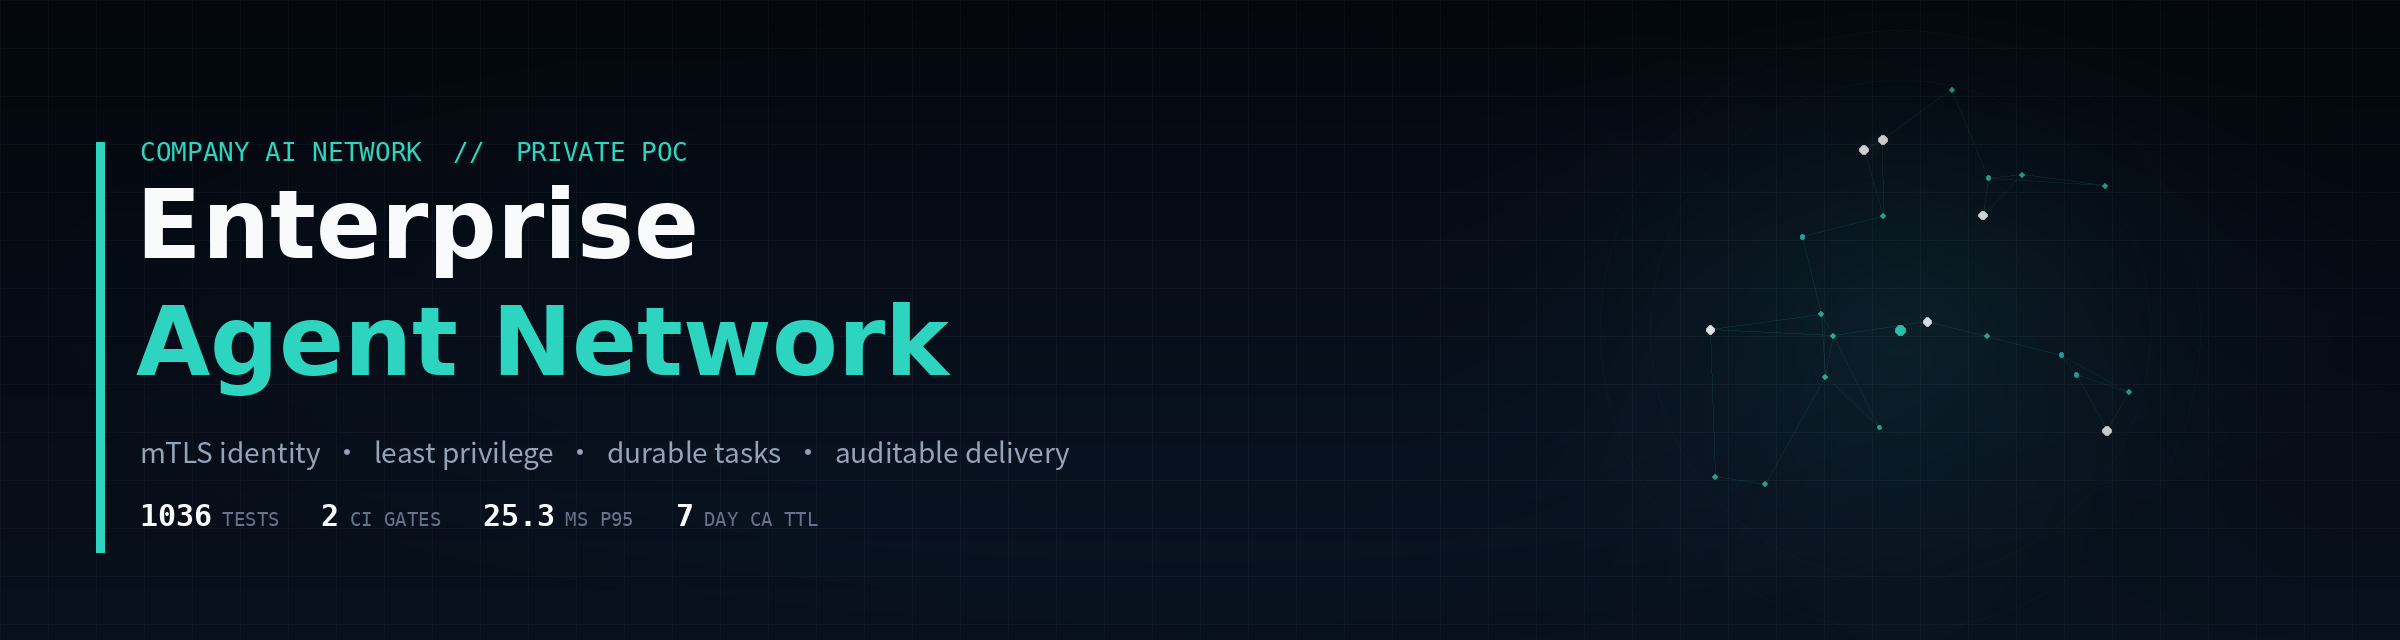
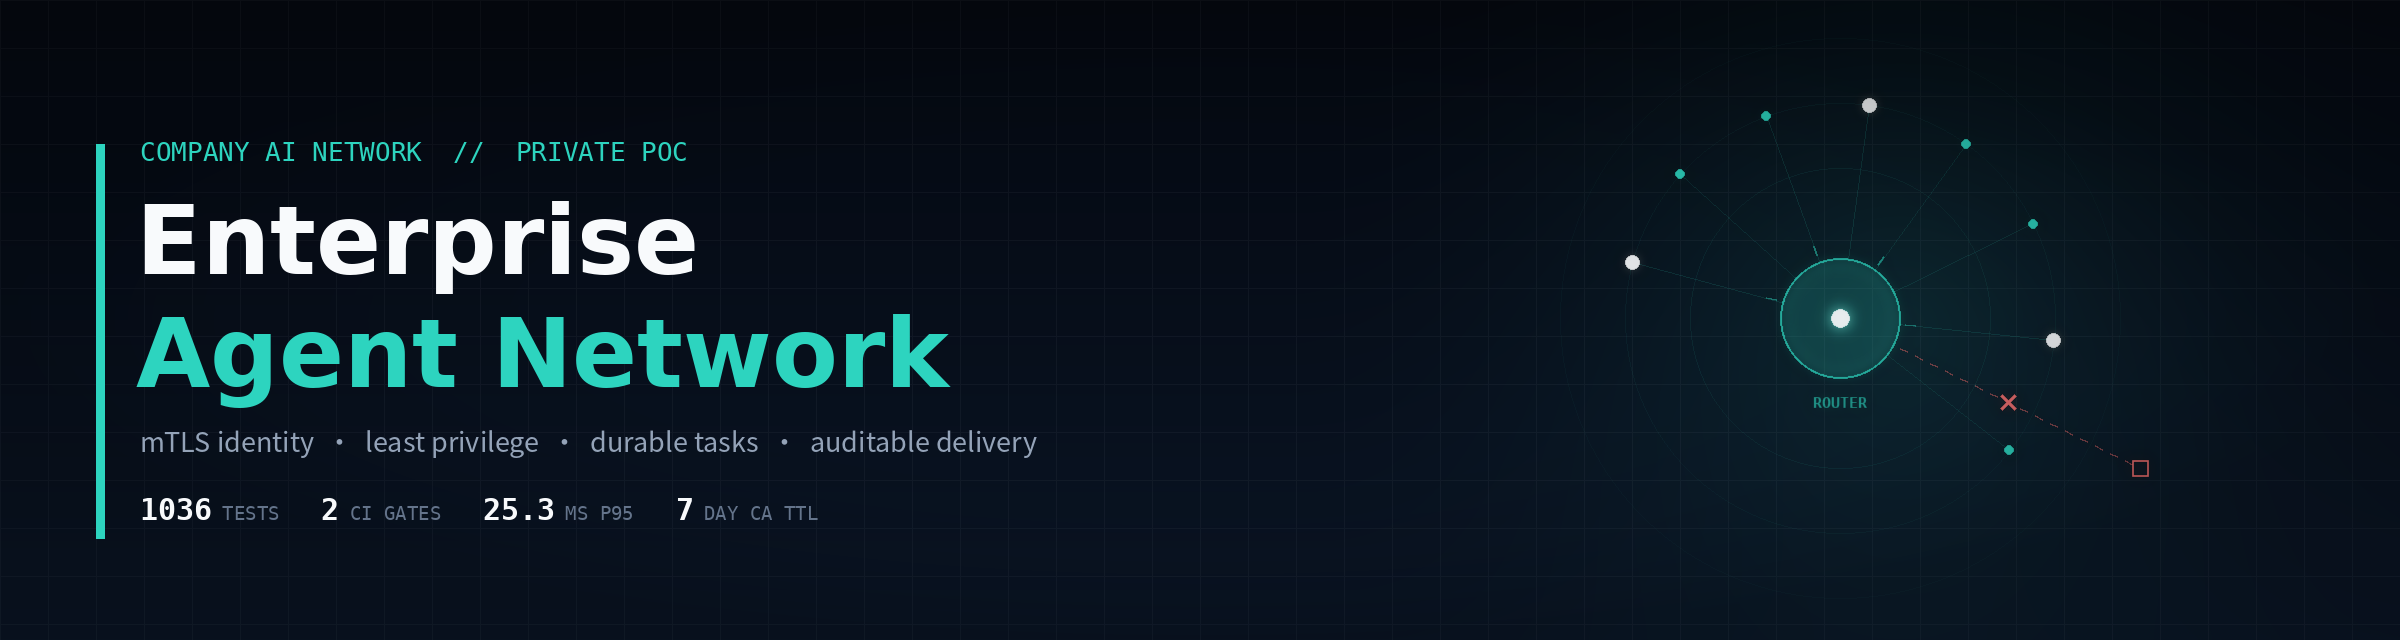
docs(readme): 头图改为信任边界拓扑，开篇改为能力优先
- 头图：Router 为轴的 hub-spoke + 拒绝调用虚线，贴合最小权限与 fail-closed
- 生成脚本随仓库提供，可复现
- 开篇去掉以准入警告开场，改为定位说明 + 指标带

diff --git a/docs/assets/generate_banner.py b/docs/assets/generate_banner.py
@@ -1,8 +1,5 @@
 #!/usr/bin/env python3
-"""README banner generator (shared style, per-project config).
-
-Usage: python3 generate_banner.py [output]
-"""
+"""Bespoke README banners, one composition per project."""
 import sys
 from pathlib import Path
 
@@ -10,161 +7,142 @@ import numpy as np
 from PIL import Image, ImageDraw, ImageFilter, ImageFont
 
 W, H = 2400, 640
-CJK = "/usr/share/fonts/opentype/noto/NotoSansCJK-Bold.ttc"
+CJK_B = "/usr/share/fonts/opentype/noto/NotoSansCJK-Bold.ttc"
 CJK_R = "/usr/share/fonts/opentype/noto/NotoSansCJK-Regular.ttc"
 FONT_DIR = Path("/usr/share/matplotlib/mpl-data/fonts/ttf")
-MONO = FONT_DIR / "DejaVuSansMono.ttf"
-MONO_B = FONT_DIR / "DejaVuSansMono-Bold.ttf"
+WHITE = (248, 250, 252)
 
 
-def font(path, size, index=0):
-    return ImageFont.truetype(str(path), size, index=index)
+def f_cjk(size, bold=True):
+    return ImageFont.truetype(CJK_B if bold else CJK_R, size, index=2)
 
 
-def cjk(size, bold=True):
-    return font(CJK if bold else CJK_R, size, index=2)
+def f_sans(size):
+    return ImageFont.truetype(str(FONT_DIR / "DejaVuSans-Bold.ttf"), size)
+
+
+def f_mono(size, bold=False):
+    return ImageFont.truetype(str(FONT_DIR / ("DejaVuSansMono-Bold.ttf" if bold else "DejaVuSansMono.ttf")), size)
+
+
+def use_cjk(text):
+    return any(ord(ch) > 0x2E80 for ch in text)
 
 
 CONFIGS = {
     "company": dict(
         kicker="COMPANY AI NETWORK  //  PRIVATE POC",
-        lines=[("Enterprise", 96, "white"), ("Agent Network", 96, "accent")],
+        lines=[("Enterprise", 96), ("Agent Network", 96)],
         subtitle="mTLS identity  ·  least privilege  ·  durable tasks  ·  auditable delivery",
         metrics=[("1036", "TESTS"), ("2", "CI GATES"), ("25.3", "MS P95"), ("7", "DAY CA TTL")],
-        accent=(45, 212, 191),
-        motif="network",
-        seed=11,
+        accent=(45, 212, 191), text_y=150, subtitle_y=420, metrics_y=492,
     ),
 }
 
 
-def gradient(top, bottom):
-    t = np.linspace(0, 1, H)[:, None, None]
-    return np.repeat(np.array(top)[None, None, :] * (1 - t) + np.array(bottom)[None, None, :] * t, W, axis=1)
-
-
 def base():
-    img = gradient((5, 9, 17), (11, 22, 38))
+    t = np.linspace(0, 1, H)[:, None, None]
+    img = np.repeat(np.array((5, 9, 17))[None, None, :] * (1 - t)
+                    + np.array((11, 22, 38))[None, None, :] * t, W, axis=1)
     ys, xs = np.mgrid[0:H, 0:W].astype(float)
     img[((xs % 48) < 1) | ((ys % 48) < 1)] += 9.0
     return img
 
 
-def soft_ring(img, cx, cy, radius, accent, strength=0.22):
+def vignette(canvas):
     ys, xs = np.mgrid[0:H, 0:W].astype(float)
-    r = np.hypot(xs - cx, ys - cy)
-    ring = np.abs(r - radius) < 1.1
-    img += ring[..., None] * np.array(accent) * strength
+    vx = (xs - W / 2) / (W / 2)
+    vy = (ys - H / 2) / (H / 2)
+    vig = 1.0 - 0.20 * np.clip(vx ** 2 + vy ** 2, 0, 1) ** 1.5
+    arr = np.asarray(canvas.convert("RGB"), dtype=float) * vig[..., None]
+    return Image.fromarray(np.clip(arr, 0, 255).astype(np.uint8), "RGB").convert("RGBA")
 
 
-def motif_network(ov, d, accent, seed, cx=1900, cy=330, radius=255):
-    rng = np.random.default_rng(seed)
+def halo(img, cx, cy, accent, radius=600, strength=0.20):
+    ys, xs = np.mgrid[0:H, 0:W].astype(float)
+    d = np.hypot(xs - cx, ys - cy) / radius
+    img += (np.clip(1 - d, 0, 1) ** 2 * strength)[..., None] * np.array(accent) * 0.6
+
+
+def draw_text(canvas, cfg):
+    d = ImageDraw.Draw(canvas)
+    accent = cfg["accent"]
+    left, y = 140, cfg["text_y"]
+    d.rectangle((96, cfg["text_y"] - 6, 104, cfg["metrics_y"] + 46), fill=accent + (190,))
+    d.text((left, y - 14), cfg["kicker"], font=f_mono(26), fill=accent + (255,))
+    y += 34
+    for i, (text, size) in enumerate(cfg["lines"]):
+        f = f_cjk(size) if use_cjk(text) else f_sans(size)
+        d.text((left - 4, y), text, font=f, fill=(WHITE if i == 0 else accent) + (255,))
+        y += int(size * 1.14) + 4
+    d.text((left, cfg["subtitle_y"]), cfg["subtitle"], font=f_cjk(27, bold=False), fill=(148, 163, 184, 255))
+    x = left
+    for value, label in cfg["metrics"]:
+        d.text((x, cfg["metrics_y"]), value, font=f_mono(30, True), fill=WHITE + (255,))
+        wv = d.textlength(value, font=f_mono(30, True))
+        d.text((x + wv + 10, cfg["metrics_y"] + 10), label, font=f_mono(19), fill=(100, 116, 139, 255))
+        x += wv + 10 + d.textlength(label, font=f_mono(19)) + 42
+
+
+# ---------------------------------------------------------------- motifs
+
+def motif_topology(ov, accent):
+    d = ImageDraw.Draw(ov)
+    cx, cy = 1840, 318
+    hub = 60
+    for r, a in ((150, 26), (215, 18), (280, 12)):
+        d.ellipse([cx - r, cy - r, cx + r, cy + r], outline=accent + (a,), width=1)
+    angles = [-165, -138, -110, -82, -54, -26, 6, 38]
     pts = []
-    while len(pts) < 22:
-        x, y = rng.uniform(-1, 1, 2)
-        if x * x + y * y <= 1.0:
-            pts.append((cx + x * radius, cy + y * radius))
-    for i, p in enumerate(pts):
-        near = sorted(((np.hypot(p[0] - q[0], p[1] - q[1]), j) for j, q in enumerate(pts) if j != i))[:2]
-        for _, j in near:
-            d.line([p, pts[j]], fill=accent + (34,), width=1)
-    for ring in (250, 300):
-        d.ellipse([cx - ring, cy - ring, cx + ring, cy + ring], outline=accent + (12,), width=1)
-    for i, p in enumerate(pts):
-        rr = 4.4 if i % 4 == 0 else 2.4
-        color = (248, 250, 252, 235) if i % 4 == 0 else accent + (205,)
-        d.ellipse([p[0] - rr, p[1] - rr, p[0] + rr, p[1] + rr], fill=color)
-    d.ellipse([cx - 5, cy - 5, cx + 5, cy + 5], fill=accent + (240,))
+    for a in angles:
+        px = cx + 215 * np.cos(np.radians(a))
+        py = cy + 215 * np.sin(np.radians(a))
+        pts.append((px, py))
+        d.line([(cx, cy), (px, py)], fill=accent + (46,), width=1)
+
+    dn = (cx + 300, cy + 150)
+    for i in range(0, 40, 2):
+        x0 = cx + (dn[0] - cx) * i / 40
+        y0 = cy + (dn[1] - cy) * i / 40
+        x1 = cx + (dn[0] - cx) * (i + 1) / 40
+        y1 = cy + (dn[1] - cy) * (i + 1) / 40
+        d.line([(x0, y0), (x1, y1)], fill=(248, 113, 113, 150), width=2)
+    mx, my = cx + (dn[0] - cx) * 0.56, cy + (dn[1] - cy) * 0.56
+    d.line([(mx - 7, my - 7), (mx + 7, my + 7)], fill=(248, 113, 113, 220), width=3)
+    d.line([(mx - 7, my + 7), (mx + 7, my - 7)], fill=(248, 113, 113, 220), width=3)
+
+    d.ellipse([cx - hub, cy - hub, cx + hub, cy + hub], fill=accent + (26,), outline=accent + (210,), width=2)
+    d.ellipse([cx - 9, cy - 9, cx + 9, cy + 9], fill=WHITE + (240,))
+    for a in angles[::2]:
+        r0, r1 = hub + 6, hub + 16
+        d.line([(cx + r0 * np.cos(np.radians(a)), cy + r0 * np.sin(np.radians(a))),
+                (cx + r1 * np.cos(np.radians(a)), cy + r1 * np.sin(np.radians(a)))],
+               fill=accent + (160,), width=2)
+    d.text((cx, cy + 76), "ROUTER", font=f_mono(15, True), fill=accent + (170,), anchor="ma")
+    for i, (px, py) in enumerate(pts):
+        rr = 7 if i % 3 == 0 else 4.5
+        d.ellipse([px - rr, py - rr, px + rr, py + rr], fill=(WHITE if i % 3 == 0 else accent) + (230,))
+    d.rectangle([dn[0] - 8, dn[1] - 8, dn[0] + 8, dn[1] + 8], outline=(248, 113, 113, 220), width=2)
 
 
-def motif_wave(d, accent, cx=1890, cy=330):
-    rng = np.random.default_rng(5)
-    n = 64
-    span = 780
-    bw = 7
-    gap = (span - n * bw) / (n - 1)
-    for i in range(n):
-        x = cx - span / 2 + i * (bw + gap)
-        env = np.exp(-((i - n / 2) / (n / 2.6)) ** 2)
-        h = 30 + 250 * env * (0.25 + 0.75 * abs(np.sin(i * 0.55 + rng.normal(0, 0.15))))
-        alpha = int(40 + 150 * env)
-        d.rounded_rectangle([x, cy - h, x + bw, cy + h], radius=bw / 2, fill=accent + (alpha,))
-    d.line([cx - span / 2 - 20, cy, cx + span / 2 + 20, cy], fill=accent + (40,), width=1)
-
-
-def motif_grid(d, accent, cx=1900, cy=330):
-    cols, rows, cell, gap = 7, 5, 74, 14
-    x0 = cx - (cols * cell + (cols - 1) * gap) / 2
-    y0 = cy - (rows * cell + (rows - 1) * gap) / 2
-    hot = {(1, 1), (3, 2), (5, 1), (2, 3), (4, 0)}
-    for r in range(rows):
-        for c in range(cols):
-            x = x0 + c * (cell + gap)
-            y = y0 + r * (cell + gap)
-            if (c, r) in hot:
-                d.rounded_rectangle([x, y, x + cell, y + cell], radius=10, fill=accent + (70,), outline=accent + (200,), width=2)
-                d.ellipse([x + cell / 2 - 7, y + cell / 2 - 7, x + cell / 2 + 7, y + cell / 2 + 7], fill=accent + (230,))
-            else:
-                d.rounded_rectangle([x, y, x + cell, y + cell], radius=10, outline=accent + (34,), width=1)
-
-
-def render(name, out):
-    cfg = CONFIGS[name]
+def render(out):
+    cfg = CONFIGS["company"]
     accent = cfg["accent"]
     img = base()
-
-    # soft halo behind the motif
-    ys, xs = np.mgrid[0:H, 0:W].astype(float)
-    d2 = np.hypot(xs - 1900, ys - 330) / 520.0
-    halo = np.clip(1 - d2, 0, 1) ** 2 * 0.16
-    img += halo[..., None] * np.array(accent) * 0.55
+    halo(img, 1900, 320, accent, 620, 0.20)
 
     ov = Image.new("RGBA", (W, H), (0, 0, 0, 0))
     d = ImageDraw.Draw(ov)
-    if cfg["motif"] == "network":
-        motif_network(ov, d, accent, cfg["seed"])
-    elif cfg["motif"] == "wave":
-        motif_wave(d, accent)
-    else:
-        motif_grid(d, accent)
+    motif_topology(ov, accent)
 
-    glow = ov.filter(ImageFilter.GaussianBlur(9))
     canvas = Image.fromarray(np.clip(img, 0, 255).astype(np.uint8), "RGB").convert("RGBA")
-    canvas = Image.alpha_composite(canvas, glow)
+    canvas = Image.alpha_composite(canvas, ov.filter(ImageFilter.GaussianBlur(7)))
     canvas = Image.alpha_composite(canvas, ov.filter(ImageFilter.GaussianBlur(0.4)))
-
-    # vignette before text
-    vx = (xs - W / 2) / (W / 2)
-    vy = (ys - H / 2) / (H / 2)
-    vig = 1.0 - 0.22 * np.clip(vx ** 2 + vy ** 2, 0, 1) ** 1.4
-    arr = np.asarray(canvas.convert("RGB"), dtype=float) * vig[..., None]
-    canvas = Image.fromarray(np.clip(arr, 0, 255).astype(np.uint8), "RGB").convert("RGBA")
-
-    d = ImageDraw.Draw(canvas)
-    d.rectangle((96, 142, 104, 552), fill=accent + (190,))
-    left = 140
-    d.text((left, 136), cfg["kicker"], font=font(MONO, 26), fill=accent + (255,))
-
-    y = 168
-    for text, size, color in cfg["lines"]:
-        f = cjk(size) if any(ord(ch) > 0x2E80 for ch in text) else font(FONT_DIR / "DejaVuSans-Bold.ttf", size)
-        d.text((left - 4, y), text, font=f, fill=(248, 250, 252, 255) if color == "white" else accent + (255,))
-        y += int(size * 1.16) + 6
-
-    d.text((left, 430), cfg["subtitle"], font=cjk(28, bold=False), fill=(148, 163, 184, 255))
-
-    x = left
-    for value, label in cfg["metrics"]:
-        if not value:
-            continue
-        d.text((x, 498), value, font=font(MONO_B, 30), fill=(248, 250, 252, 255))
-        wv = d.textlength(value, font=font(MONO_B, 30))
-        d.text((x + wv + 10, 508), label, font=font(MONO, 19), fill=(100, 116, 139, 255))
-        x += wv + 10 + d.textlength(label, font=font(MONO, 19)) + 42
-
+    canvas = vignette(canvas)
+    draw_text(canvas, cfg)
     canvas.convert("RGB").save(out, optimize=True)
     print(f"wrote {out} ({Path(out).stat().st_size / 1024:.0f} KB)")
 
 
 if __name__ == "__main__":
-    render("company", sys.argv[1] if len(sys.argv) > 1 else "banner.png")
+    render(sys.argv[1] if len(sys.argv) > 1 else "banner.png")

diff --git a/README.md b/README.md
@@ -23,10 +23,8 @@
 
 ---
 
-> [!WARNING]
-> **企业生产准入尚未通过**（`production_ready=false`）。工程实现与受控环境验证基本完成；测试通过、CI 全绿和历史证据都不等于企业生产就绪。现场门禁见 [验收矩阵](docs/ACCEPTANCE_MATRIX.md) 与 [剩余工作](docs/REMAINING_WORK.md)。
->
-> 公开仓库只包含源码、文档、测试和示例配置；验收证据、现场地址、证书、私钥和运行数据库不随仓库发布。
+> [!NOTE]
+> **定位**：可运行的企业内网 PoC / 受控试用基线（`production_ready=false`）。工程实现与受控环境验证已完成，生产准入项按现场清单推进；下方能力与指标均来自可复现的离线回归与受控环境实测。
 
 | 离线回归 | Windows 客户端 | 目录查询 P95 | 跨网段稳定性 |
 | :---: | :---: | :---: | :---: |
